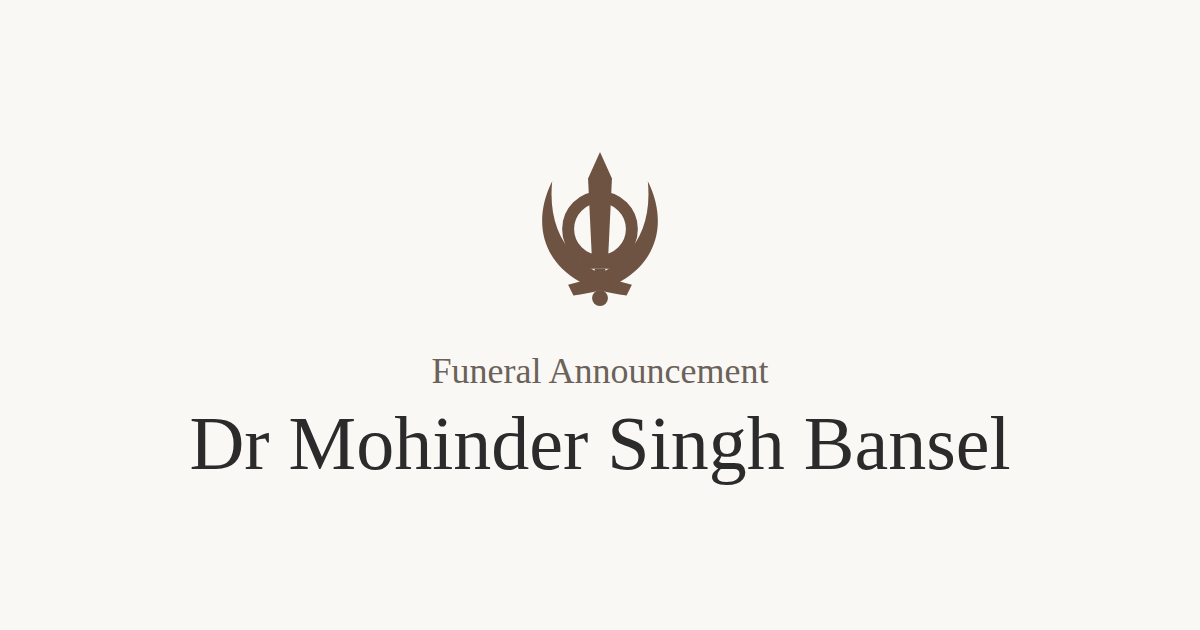
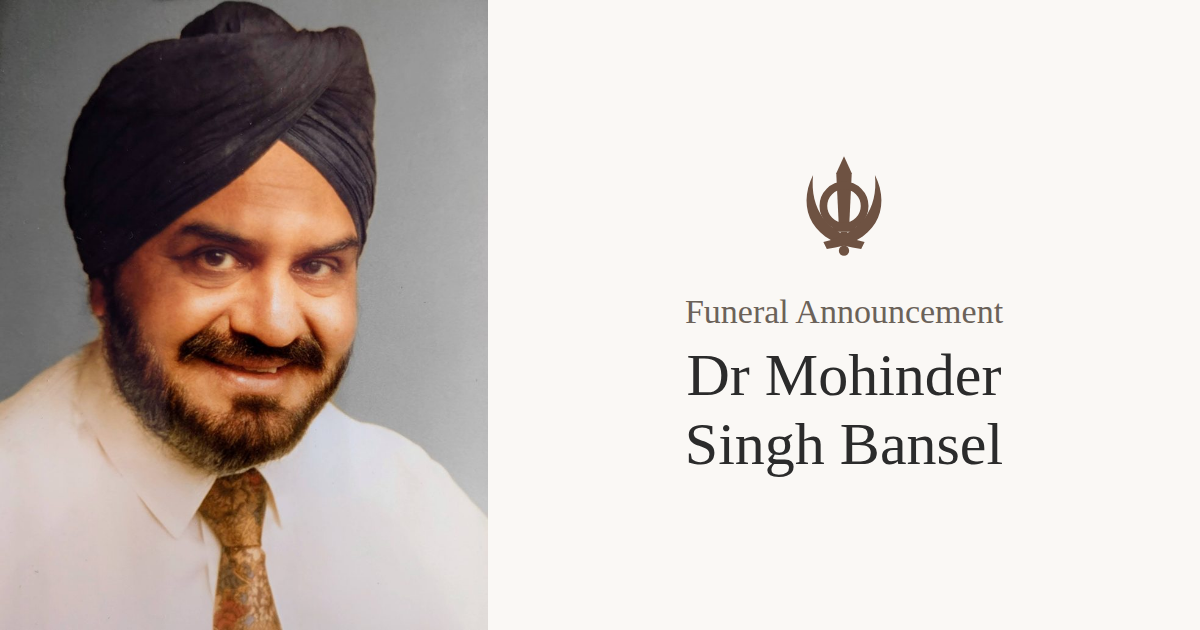
Add portrait to page and link preview

diff --git a/index.html b/index.html
@@ -30,6 +30,7 @@
     .greeting { font-size: 1.1rem; font-style: italic; font-weight: bold; letter-spacing: 0.04em; color: var(--muted); }
     h1 { font-size: 1.8rem; line-height: 1.3; font-weight: normal; margin: 2.5rem 0 0.5rem; letter-spacing: 0.02em; }
     h1 small { display: block; font-size: 1.1rem; color: var(--muted); }
+    .portrait { display: block; width: 14rem; height: auto; margin: 2rem auto 0; border-radius: 0.5rem; box-shadow: 0 0.25rem 1rem rgb(0 0 0 / 0.15); }
     .date { font-size: 1.9rem; margin: 1.5rem 0 0; }
     .updated { font-size: 0.9rem; color: var(--muted); margin: 0.25rem 0 0; }
     .webcast { display: block; font-size: 1.1rem; margin-top: 0.5rem; }
@@ -48,6 +49,7 @@
       .greeting { font-size: 1.9rem; white-space: nowrap; }
       h1 { font-size: 2.6rem; }
       h1 small { font-size: 1.4rem; }
+      .portrait { width: 18rem; }
     }
   </style>
 </head>
@@ -56,6 +58,8 @@
     <p class="greeting">Waheguru Ji Ka Khalsa<br>Waheguru Ji Ki Fateh</p>
 
     <h1><small>Funeral Announcement</small>Dr Mohinder Singh Bansel</h1>
+
+    <img class="portrait" src="portrait.jpg" width="800" height="1034" alt="Portrait of Dr Mohinder Singh Bansel">
 
     <p class="date">Tuesday 20<sup>th</sup> October 2026</p>
     <p class="updated" id="updated" hidden></p>
